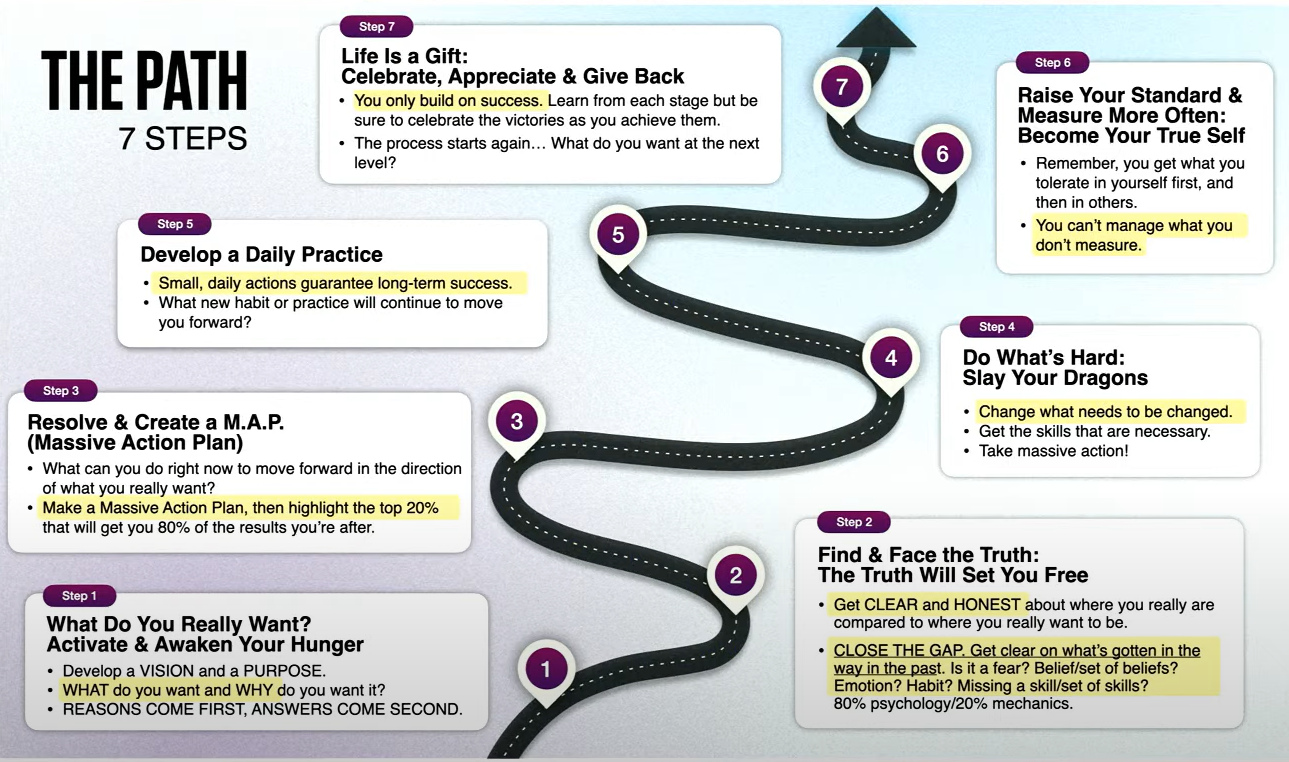
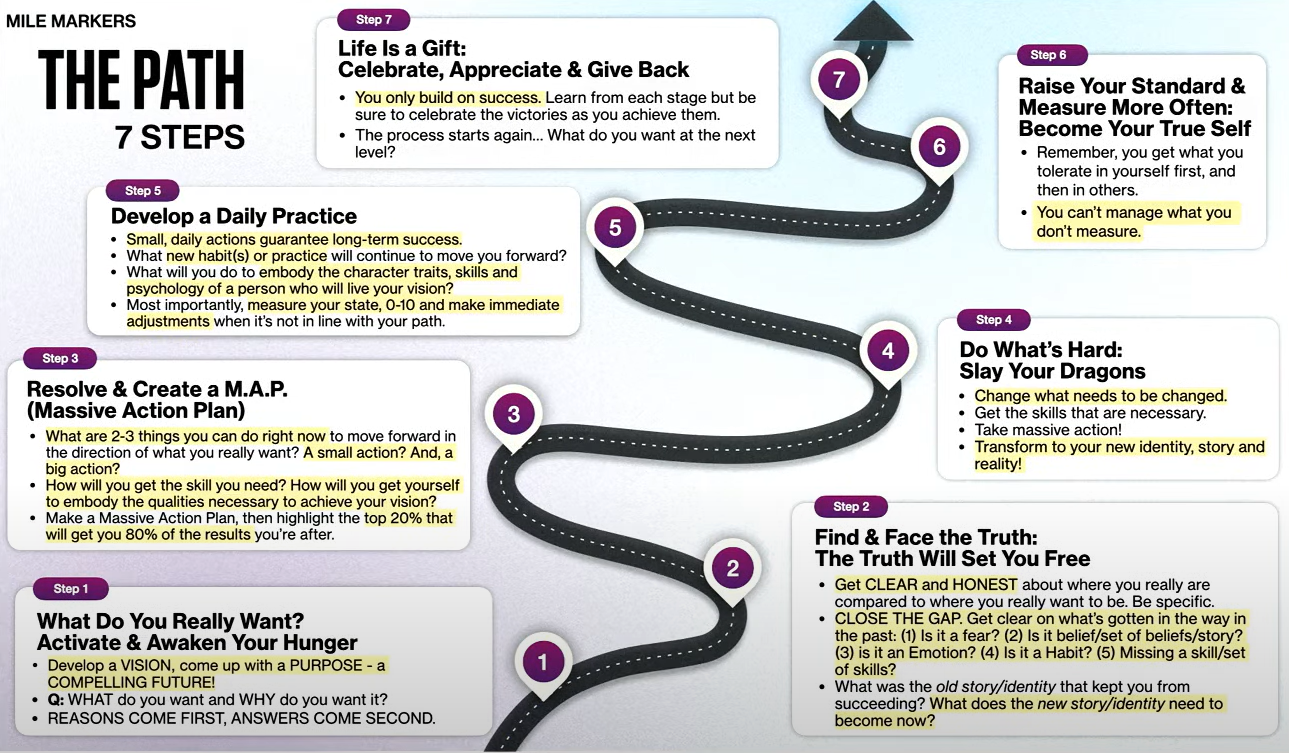
Update The Path 7 Steps image and related text

diff --git a/docs/PersonalGrowth/PathToGrowth/index.md b/docs/PersonalGrowth/PathToGrowth/index.md
@@ -4,22 +4,24 @@
 
 ## Stap 1: Wat wil je echt?
 
-> Activeer en wek uw honger
+> Activeer- en wek uw honger
 
-* Ontwikkel een VISIE en een DOEL
-* WAT wil je en WAAROM wil je het?
-* Eerst REDENEN, daarna ANTWOORDEN
+* Ontwikkel een **VISIE** en een **DOEL** (Overtuigende toekomst)
+* **WAT** wil je en **WAAROM** wil je het?
+* Eerst **REDENEN**, daarna **ANTWOORDEN**
 
 ## Stap 2: Vind en zie de waarheid onder ogen
 
 > De waarheid zal je bevrijden
 
-* Wees DUIDELIJK en EERLIJK over waar u werkelijk staat, vergeleken met waar u werkelijk wilt zijn
-* SLUIT DE KLOOF. Maak duidelijk wat er in het verleden in de weg heeft gestaan. Is het angst, geloof/set van overtuigingen, emotie, gewoonte, het missen van een vaardigheid/set van vaardigheden? (80% psychologie / 20% mechanica)
+* Wees **DUIDELIJK** en **EERLIJK** over waar u werkelijk staat, vergeleken met waar u werkelijk wilt zijn (Wees specifiek)
+* SLUIT DE KLOOF. Maak duidelijk wat er in het verleden in de weg heeft gestaan. Is het **angst**, **overtuiging**/set van overtuigingen/verhaal, **emotie**, **gewoonte**, het missen van een vaardigheid/set van **vaardigheden**? (80% psychologisch / 20% mechanisch)
+* Wat was het **oude** verhaal/identiteit dat je ervan weerhield te slagen? Wat moet het **nieuwe** verhaal/identiteit **nu** worden?
 
 ## Stap 3: Maak een Massief ActiePlan (M.A.P.)
 
-* Wat kun je nu doen om vooruit te komen in de richting van wat je echt wilt?
+* Wat zijn twee tot drie dingen die je nu kunt doen om vooruit te komen in de richting van wat je echt wilt? Dit kan een kleine actie zijn, maar ook een grote actie
+* Hoe krijg je de vaardigheden die je nodig hebt? Hoe zorg je ervoor dat je de kwaliteiten belichaamt die nodig zijn om je visie te verwezenlijken?
 * Maak een massief (grootschalig) actieplan en markeer vervolgens de top 20% die u 80% van de gewenste resultaten oplevert
 
 ## Stap 4: Doe wat moeilijk is
@@ -29,11 +31,14 @@
 * Verander wat er veranderd moet worden
 * Verkrijg de vaardigheden die nodig zijn
 * Onderneem massale actie
+* Transformeer naar jouw nieuwe identiteit, verhaal en realiteit
 
 ## Stap 5: Ontwikkel een dagelijkse routine
 
 * Kleine, dagelijkse acties garanderen succes op de lange termijn
-* Welke nieuwe routine (gewoonte of oefening) zal je vooruit blijven helpen?
+* Welke nieuwe routine(s) (gewoonte/oefening) zal je helpen vooruit te blijven gaan?
+* Wat gaat u doen om de karaktereigenschappen, vaardigheden en psychologie eigen te maken van iemand die uw visie zal naleven?
+* Het belangrijkste is dat u uw toestand meet, 0-10, en onmiddellijke aanpassingen maakt als deze niet in overeenstemming zijn met uw pad
 
 ## Stap 6: Verhoog je standaard en meet vaker
 

diff --git a/docs/PersonalGrowth/PathToGrowth/index.en.md b/docs/PersonalGrowth/PathToGrowth/index.en.md
@@ -19,7 +19,8 @@
 
 ## Step 3: Create a Massive Action Plan (M.A.P.)
 
-* What can you do right now to move forward in the direction of what you really want?
+* What are 2-3 things you can do right now to move forward in the direction of what you really want? Can be a small action or a big action
+* How will you get the skill you need? How will you get yourself to embody the qualities necessary to achieve your vision?
 * Make a Massive Action Plan, then highlight the top 20% that will get you 80% of the results you're after
 
 ## Step 4: Do What's Hard
@@ -29,11 +30,14 @@
 * Change what needs to be changed
 * Get the skills that are necessary
 * Take massive action
+* Transform to your new identity, story and reality
 
 ## Step 5: Develop a Daily Practice
 
 * Small, daily actions guarantee long-term success
-* What new habit or practice will continue to move you forward?
+* What new habit(s) or practice will continue to move you forward?
+* What will you do to embody the character traits, skills and psychology of a person who will live your vision?
+* Most importantly, measure your state, 0-10 and make mistake immediate adjustments when it's not in line with your path
 
 ## Step 6: Raise Your Standard & Measure More Often
 
